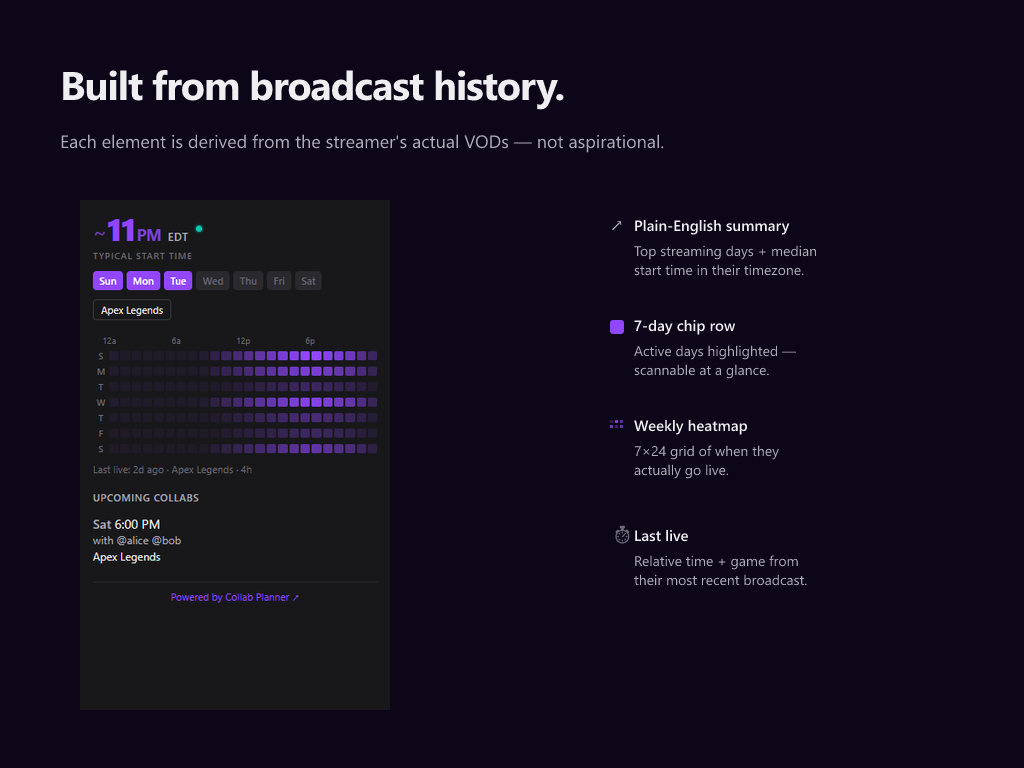
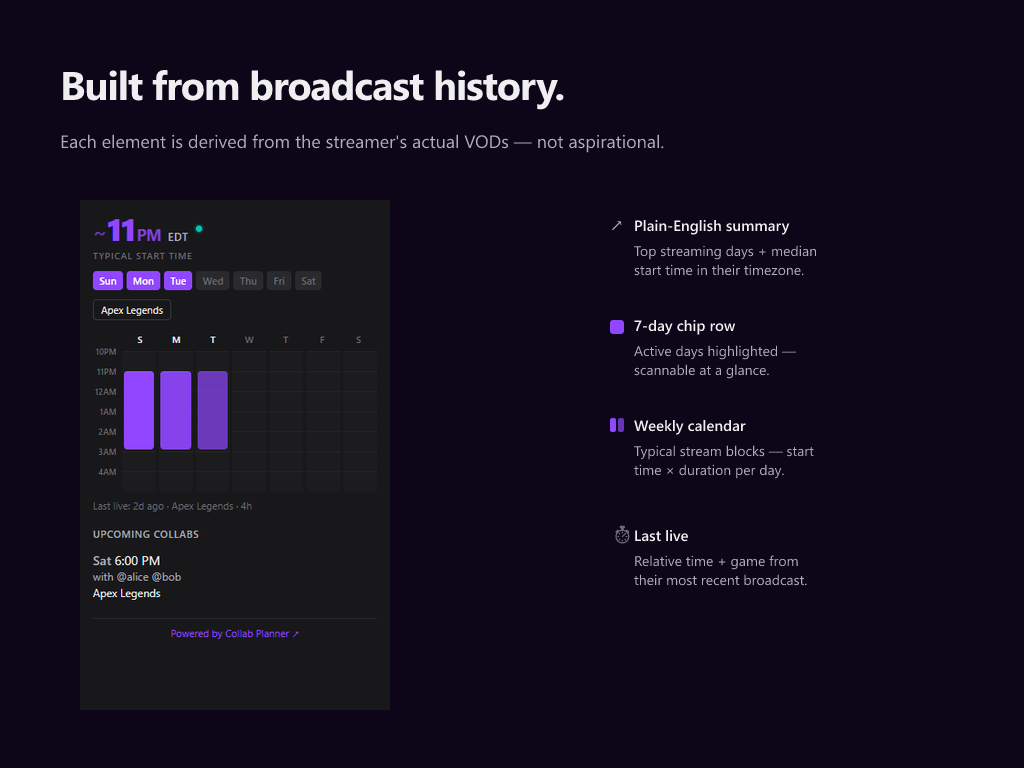
ext: 0.7.0 — week calendar visualization + reframe 'no signup' pitch
Two changes the visual was failing at:

1. Replaced the heatmap with an iOS-style week calendar. Earlier 7×24
   contribution-graph grid was too abstract — viewers couldn't read
   'when does this person stream'. New layout shows literal time blocks
   per active day, sized by the typical session duration. Anchors
   visually to the hero start-time above it: 11PM hero, 11PM-3AM blocks.
   Requires new field 'avgDurationHours' on PanelResponse.summary.

2. Reframed the not-in-CP config card. Previous text 'your panel will
   start working automatically' and prominent purple Sign-in CTA
   implied login was required to use the extension. That contradicts
   the actual pitch (panel works without signup; login is optional for
   richer signal). Header is now 'Panel is live ✓', sign-in button is
   secondary outline style labeled 'Sign in (optional)'. Screenshot
   composite headline updated to 'Works without a signup.'

Regenerated all three dashboard screenshots.

diff --git a/twitch-extension/src/components/Heatmap.tsx b/twitch-extension/src/components/Heatmap.tsx
@@ -1,72 +1,100 @@
-const DAY_LABELS = ["S", "M", "T", "W", "T", "F", "S"];
+// Renamed conceptually: this is a weekly calendar (iOS-style) showing
+// typical stream windows as time blocks, not a heatmap. File name kept
+// so panel.tsx import doesn't move; component export name is unchanged.
 
-// Hour-tick labels on the top axis — only show at 0/6/12/18 so we don't crowd.
-const HOUR_TICKS = [0, 6, 12, 18];
-const HOUR_LABELS: Record<number, string> = {
-  0: "12a",
-  6: "6a",
-  12: "12p",
-  18: "6p",
-};
+const DAY_LETTERS = ["S", "M", "T", "W", "T", "F", "S"];
+const DAY_NAMES = ["Sun", "Mon", "Tue", "Wed", "Thu", "Fri", "Sat"];
 
 interface Props {
-  hourDistribution: number[]; // length 24, 0-1
-  dayFrequency: number[];     // length 7, 0-1 (index 0 = Sunday)
+  topDays: string[];          // ["Sun", "Mon", "Wed"] — days the streamer is active
+  medianHour: number;         // 0-23, typical start hour in broadcaster's tz
+  avgDurationHours: number;   // typical session length
+  dayFrequency: number[];     // length 7, 0-1, varies block opacity per day
 }
 
-/**
- * GitHub-style contribution-graph layout. 7 rows (days, Sunday-first) by 24
- * columns (hours). Near-square cells with subtle rounding and visible gaps —
- * the panel is too narrow for a 24-row transposed layout, which forced
- * wide-thin cells that looked cramped.
- *
- * Cell intensity = dayFrequency[day] * hourDistribution[hour]. This assumes
- * day and hour are independent (only marginal distributions exposed
- * server-side). A future revision could compute a true 7×24 matrix in
- * patterns.ts for streamers whose hours vary a lot day-to-day.
- */
-export function Heatmap({ hourDistribution, dayFrequency }: Props) {
-  const hasData =
-    hourDistribution.length === 24 &&
-    dayFrequency.length === 7 &&
-    (hourDistribution.some((v) => v > 0) || dayFrequency.some((v) => v > 0));
-  if (!hasData) return null;
+function formatHourLabel(hour: number): string {
+  const h = ((hour % 24) + 24) % 24;
+  const h12 = h % 12 || 12;
+  return `${h12}${h >= 12 ? "PM" : "AM"}`;
+}
+
+// Visual: 7 day columns × N hour rows. Each active day gets a single
+// rounded block from medianHour to medianHour+avgDurationHours.
+const ROW_HEIGHT = 22; // px per hour
+const HOURS_BEFORE = 1; // hours of padding above the typical start
+const HOURS_AFTER = 2;  // hours of padding below the typical end
+
+export function Heatmap({ topDays, medianHour, avgDurationHours, dayFrequency }: Props) {
+  if (topDays.length === 0) return null;
+
+  // Snap duration to whole hours, minimum 1.
+  const duration = Math.max(1, Math.round(avgDurationHours));
+  const visibleHours = HOURS_BEFORE + duration + HOURS_AFTER;
+  const startHourOffset = medianHour - HOURS_BEFORE;
+
+  // Hour labels for each visible row (wrapping past midnight)
+  const hourRows = Array.from({ length: visibleHours }, (_, i) => {
+    return ((startHourOffset + i) % 24 + 24) % 24;
+  });
+
+  const bodyHeight = visibleHours * ROW_HEIGHT;
 
   return (
-    <div className="heatmap">
-      <div className="heatmap-axis-top">
-        <span className="heatmap-corner" />
-        <div className="heatmap-hour-ticks">
-          {HOUR_TICKS.map((h) => (
+    <div className="weekcal">
+      <div className="weekcal-header">
+        <span className="weekcal-corner" />
+        {DAY_LETTERS.map((label, i) => {
+          const isActive = topDays.includes(DAY_NAMES[i]);
+          return (
             <span
-              key={h}
-              className="heatmap-hour-tick"
-              style={{ left: `${(h / 24) * 100}%` }}
+              key={i}
+              className={`weekcal-day-label ${isActive ? "weekcal-day-label-active" : ""}`}
             >
-              {HOUR_LABELS[h]}
+              {label}
             </span>
+          );
+        })}
+      </div>
+
+      <div className="weekcal-body" style={{ height: bodyHeight }}>
+        <div className="weekcal-hours">
+          {hourRows.map((h, i) => (
+            <div key={i} className="weekcal-hour" style={{ top: i * ROW_HEIGHT }}>
+              {formatHourLabel(h)}
+            </div>
           ))}
         </div>
-      </div>
-      <div className="heatmap-rows">
-        {DAY_LABELS.map((label, day) => (
-          <div className="heatmap-row" key={day}>
-            <span className="heatmap-day-label">{label}</span>
-            <div className="heatmap-cells">
-              {Array.from({ length: 24 }, (_, hour) => {
-                const intensity = dayFrequency[day] * hourDistribution[hour];
-                return (
-                  <span
-                    key={hour}
-                    className="heatmap-cell"
-                    style={{ opacity: Math.max(0.06, Math.min(1, intensity)) }}
-                    title={`${label} ${hour}:00 — ${Math.round(intensity * 100)}%`}
+
+        <div className="weekcal-days">
+          {DAY_NAMES.map((dayName, dayIdx) => {
+            const isActive = topDays.includes(dayName);
+            const opacity = isActive
+              ? Math.min(1, 0.55 + 0.45 * (dayFrequency[dayIdx] ?? 0))
+              : 0;
+            return (
+              <div key={dayIdx} className="weekcal-day-col">
+                {hourRows.map((_, i) => (
+                  <div
+                    key={i}
+                    className="weekcal-hourline"
+                    style={{ top: i * ROW_HEIGHT }}
                   />
-                );
-              })}
-            </div>
-          </div>
-        ))}
+                ))}
+                {isActive && (
+                  <div
+                    className="weekcal-event"
+                    style={{
+                      top: HOURS_BEFORE * ROW_HEIGHT,
+                      height: duration * ROW_HEIGHT - 2,
+                      opacity,
+                    }}
+                    title={`${dayName} ${formatHourLabel(medianHour)} — ${duration}h`}
+                  />
+                )}
+              </div>
+            );
+          })}
+        </div>
       </div>
     </div>
   );

diff --git a/twitch-extension/src/styles.css b/twitch-extension/src/styles.css
@@ -172,6 +172,29 @@ h2 {
 .cta:hover {
   background: #7a3fd9;
 }
+/* Secondary CTA — outline button for optional actions (e.g. "Sign in
+   (optional)"). Used when the panel is already working without sign-in
+   so we don't shout the upgrade. */
+.cta-secondary {
+  display: inline-block;
+  background: transparent;
+  color: #efeff1;
+  padding: 7px 13px;
+  border-radius: 4px;
+  border: 1px solid #3a3a3d;
+  text-decoration: none;
+  font-weight: 500;
+  font-size: 12px;
+}
+.cta-secondary:hover {
+  background: #1f1f23;
+  border-color: #4a4a4d;
+}
+.upgrade-note {
+  color: #adadb8;
+  font-size: 12px;
+  margin-top: 6px;
+}
 
 /* ── Accent color via Twitch ext config ───────────────────────── */
 :root {
@@ -424,63 +447,78 @@ h2 {
   vertical-align: middle;
 }
 
-/* ── Heatmap (GitHub-style: 7 rows × 24 cols, near-square cells) ─────── */
-.heatmap {
+/* ── Week calendar (iOS-style; typical stream windows as time blocks) ─ */
+.weekcal {
   margin-top: 14px;
   font-size: 10px;
   color: #6b6b75;
 }
-.heatmap-axis-top {
-  display: flex;
-  align-items: flex-end;
-  height: 14px;
-  margin-bottom: 4px;
+.weekcal-header {
+  display: grid;
+  grid-template-columns: 32px repeat(7, 1fr);
+  margin-bottom: 6px;
+  align-items: center;
 }
-.heatmap-corner {
-  flex: 0 0 18px;
+.weekcal-corner {
+  width: 32px;
 }
-.heatmap-hour-ticks {
-  position: relative;
-  flex: 1;
-  height: 12px;
-}
-.heatmap-hour-tick {
-  position: absolute;
-  transform: translateX(-50%);
-  font-size: 9px;
-  letter-spacing: 0.02em;
+.weekcal-day-label {
+  text-align: center;
+  font-size: 10px;
+  font-weight: 600;
+  letter-spacing: 0.06em;
   color: #6b6b75;
+  text-transform: uppercase;
 }
-.heatmap-rows {
-  display: flex;
-  flex-direction: column;
+.weekcal-day-label-active {
+  color: #efeff1;
+}
+.weekcal-body {
+  position: relative;
+  display: grid;
+  grid-template-columns: 32px 1fr;
+}
+.weekcal-hours {
+  position: relative;
+}
+.weekcal-hour {
+  position: absolute;
+  right: 6px;
+  font-size: 9px;
+  font-weight: 500;
+  color: #6b6b75;
+  letter-spacing: 0.02em;
+  transform: translateY(-4px);
+  line-height: 1;
+}
+.weekcal-days {
+  position: relative;
+  display: grid;
+  grid-template-columns: repeat(7, 1fr);
   gap: 3px;
 }
-.heatmap-row {
-  display: flex;
-  align-items: center;
-  gap: 0;
+.weekcal-day-col {
+  position: relative;
+  background: rgba(255, 255, 255, 0.015);
+  border-radius: 3px;
 }
-.heatmap-day-label {
-  flex: 0 0 18px;
-  font-weight: 600;
-  font-size: 10px;
-  color: #6b6b75;
-  text-align: center;
-  letter-spacing: 0.04em;
+.weekcal-hourline {
+  position: absolute;
+  left: 0;
+  right: 0;
+  height: 1px;
+  background: rgba(255, 255, 255, 0.04);
+  pointer-events: none;
 }
-.heatmap-cells {
-  flex: 1;
-  display: grid;
-  grid-template-columns: repeat(24, 1fr);
-  gap: 2px;
-}
-.heatmap-cell {
-  aspect-ratio: 1 / 1;
-  min-height: 9px;
+.weekcal-event {
+  position: absolute;
+  left: 2px;
+  right: 2px;
   background: var(--accent);
-  border-radius: 2px;
-  display: block;
+  border-radius: 4px;
+  box-shadow:
+    inset 0 1px 0 rgba(255, 255, 255, 0.12),
+    0 1px 3px rgba(0, 0, 0, 0.25);
 }
 
 /* ── Last live (previous stream info) ──────────────────────────── */

diff --git a/twitch-extension/src/config.tsx b/twitch-extension/src/config.tsx
@@ -22,19 +22,30 @@ function StatusStrip({ state }: { state: State }) {
   if (state.kind === "loading") return <p className="loading">Loading…</p>;
   if (state.kind === "error") return <p className="error">Unable to load config.</p>;
 
-  if (state.kind === "not_in_cp" || state.kind === "no_data") {
+  if (state.kind === "not_in_cp") {
     return (
       <>
-        <h1>Collab Planner</h1>
+        <h1>Panel is live ✓</h1>
         <p>
-          Your channel isn't connected yet. Sign in with Twitch at Collab Planner — your panel
-          will start working automatically.
+          Predictions are auto-built from this channel's recent broadcasts — no signup needed.
+        </p>
+        <p className="upgrade-note">
+          Sign in at Collab Planner to add planned collabs and sharper predictions.
         </p>
         <p>
-          <a className="cta" href={SIGN_IN} target="_blank" rel="noopener noreferrer">
-            Sign in with Twitch ↗
+          <a className="cta-secondary" href={SIGN_IN} target="_blank" rel="noopener noreferrer">
+            Sign in (optional) ↗
           </a>
         </p>
+      </>
+    );
+  }
+
+  if (state.kind === "no_data") {
+    return (
+      <>
+        <h1>Collab Planner ✓</h1>
+        <p>Account detected. Predictions will populate as your broadcast history syncs.</p>
       </>
     );
   }

diff --git a/twitch-extension/src/panel.tsx b/twitch-extension/src/panel.tsx
@@ -53,6 +53,7 @@ function Panel() {
             hasPostedSchedule: true,
             hourDistribution: [0.1, 0.05, 0.05, 0.05, 0.05, 0.05, 0.05, 0.05, 0.1, 0.2, 0.3, 0.4, 0.5, 0.6, 0.7, 0.8, 0.9, 1.0, 1.0, 0.9, 0.8, 0.7, 0.5, 0.3],
             dayFrequency: [1.0, 0.8, 0.3, 0.9, 0.4, 0.3, 0.6],
+            avgDurationHours: 4,
           },
           lastStream: { startedAt: new Date(Date.now() - 2 * 86_400_000).toISOString(), gameName: "Apex Legends", durationSec: 4 * 3600 },
           collabs:
@@ -130,7 +131,9 @@ function Panel() {
     <>
       <ScheduleSummary summary={state.data.summary} showGame={config.showGame} />
       <Heatmap
-        hourDistribution={state.data.summary.hourDistribution}
+        topDays={state.data.summary.topDays}
+        medianHour={state.data.summary.medianHour}
+        avgDurationHours={state.data.summary.avgDurationHours}
         dayFrequency={state.data.summary.dayFrequency}
       />
       <LastLive lastStream={state.data.lastStream} />

diff --git a/lib/twitch/extensionPredictions.ts b/lib/twitch/extensionPredictions.ts
@@ -25,6 +25,8 @@ export type PanelResponse =
         hourDistribution: number[];
         /** Normalized stream frequency per day-of-week (length 7, values 0-1, index 0 = Sunday). */
         dayFrequency: number[];
+        /** Typical session length in hours (used to size calendar event blocks). */
+        avgDurationHours: number;
       };
       collabs: Array<{
         startsAt: string;
@@ -94,6 +96,7 @@ export function shapeConnectedPanelResponse(inputs: Inputs): PanelResponse {
       hasPostedSchedule,
       hourDistribution: pattern.hourDistribution,
       dayFrequency: pattern.dayFrequency,
+      avgDurationHours: pattern.avgDurationHours,
     },
     collabs: upcomingCollabs,
     lastStream: lastStream

diff --git a/twitch-extension/src/lib/types.ts b/twitch-extension/src/lib/types.ts
@@ -12,6 +12,7 @@ export type PanelResponse =
         hasPostedSchedule: boolean;
         hourDistribution: number[];   // length 24, values 0-1
         dayFrequency: number[];       // length 7, values 0-1, index 0 = Sunday
+        avgDurationHours: number;     // typical session length in hours
       };
       collabs: Array<{
         startsAt: string;
